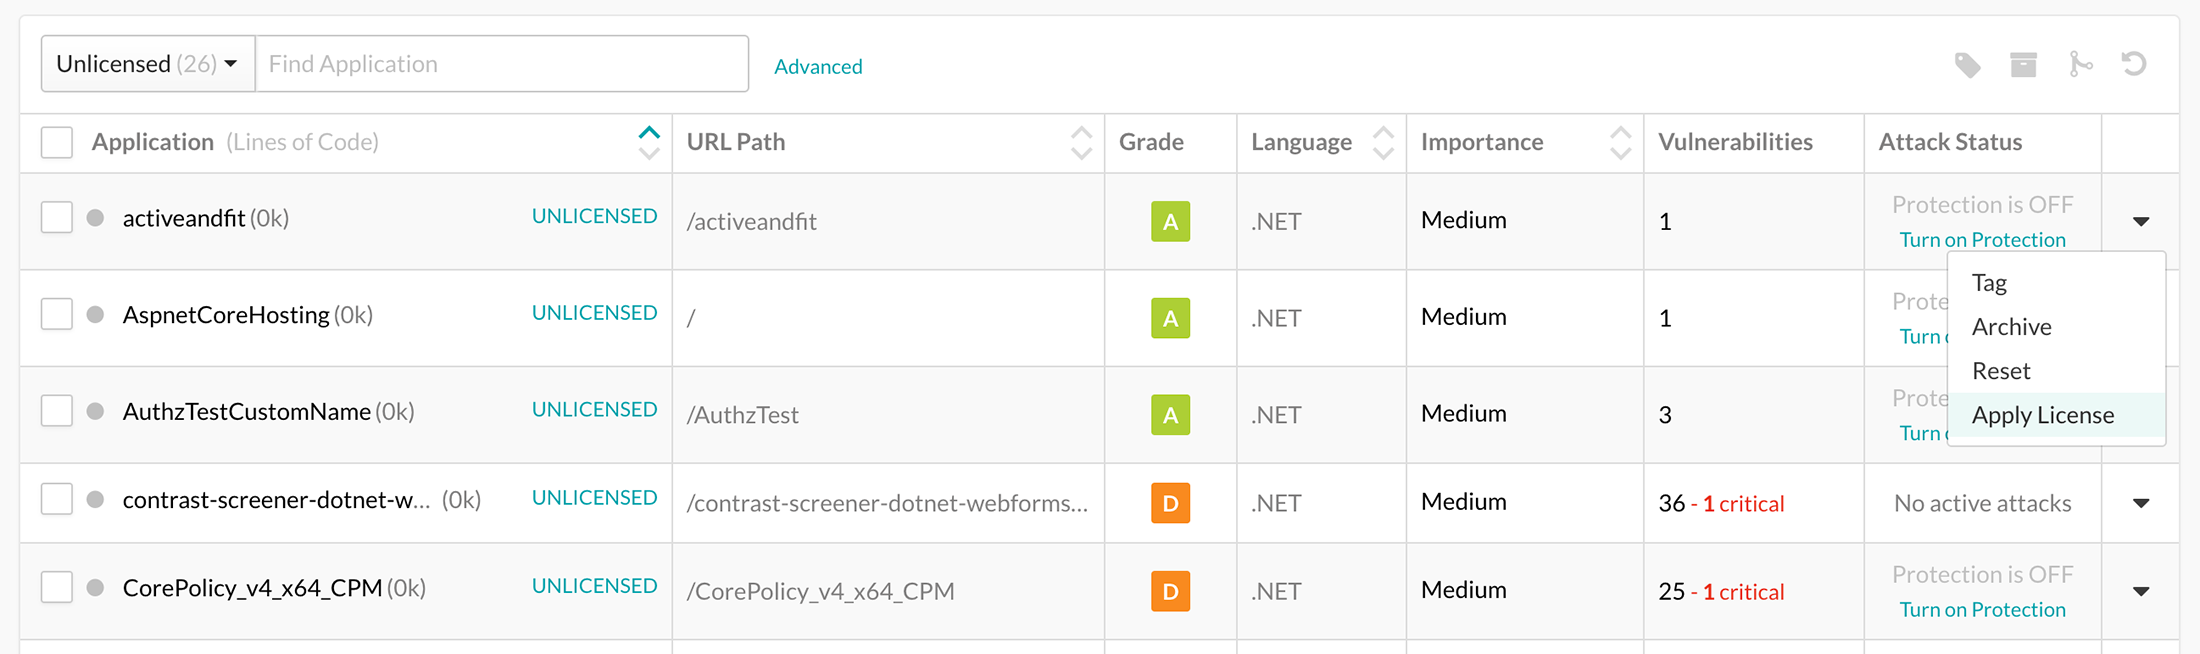
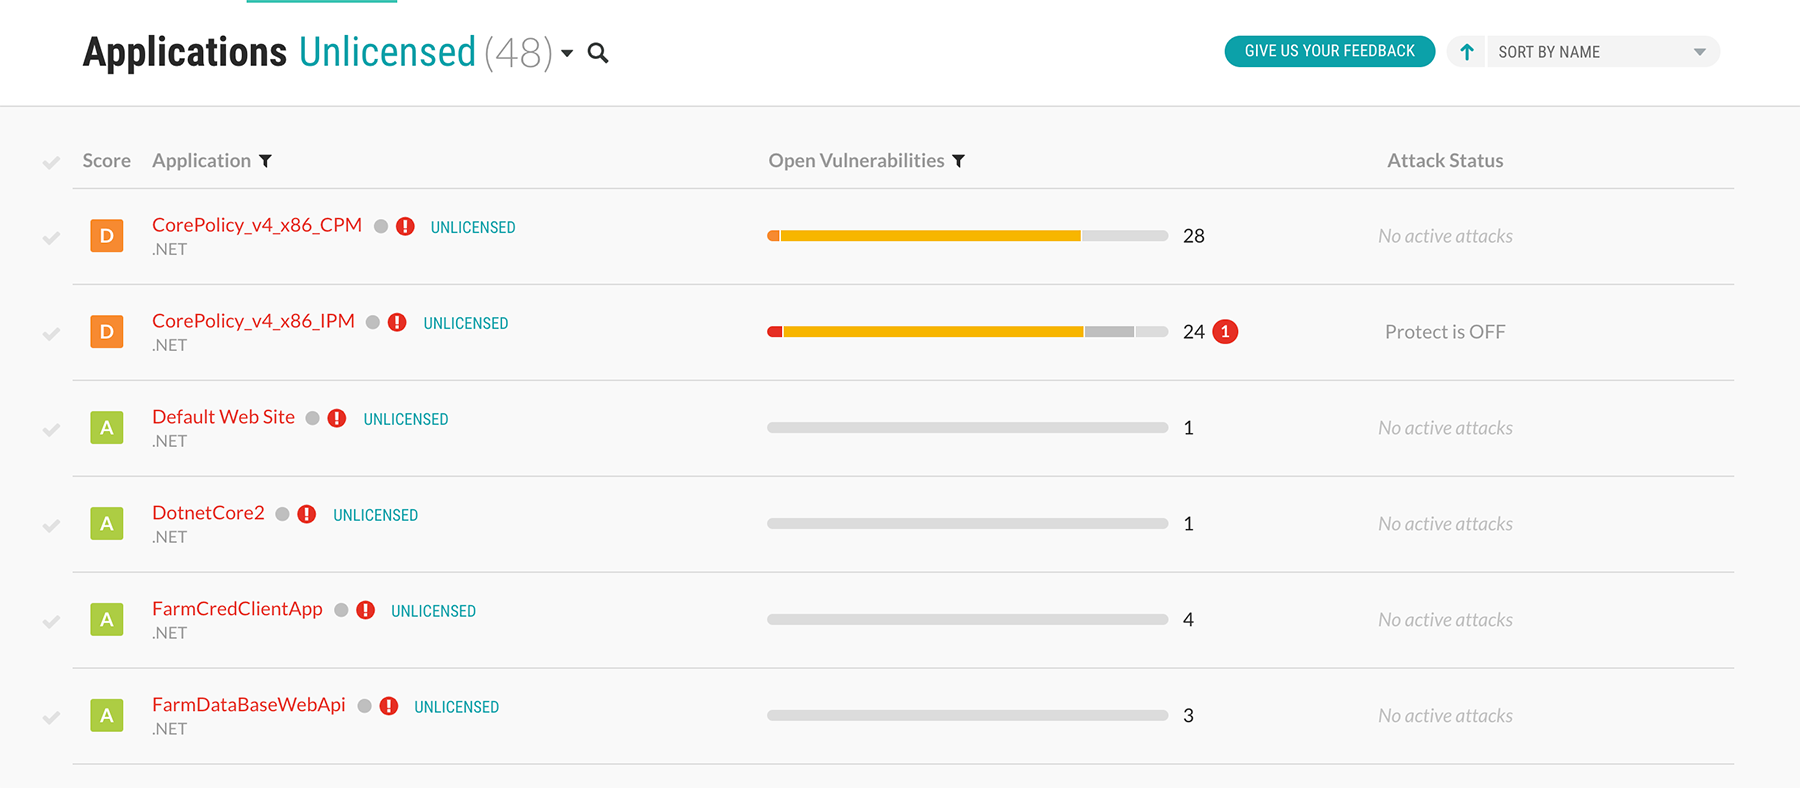
updated text and images, overview/license

diff --git a/content/user/apps/manage/ManageApplications.md b/content/user/apps/manage/ManageApplications.md
@@ -4,7 +4,7 @@ description: "Overview of the core operations for an application from the action
 tags: "user ui application manage archiving restoring resetting deleting"
 -->
 
-Contrast users can manage applications based on their [organization or application role](admin-manageorgsroleperm.html#roles). Manage individual applications in the grid, or use the action bar to make changes in bulk. To archive, restore, reset or delete applications, see the step-by-step instructions in the [Delete Applications](user-appsmanage.html#delete) article.  
+Contrast users can manage applications based on their [organization or application role](admin-manageorgsroleperm.html#roles). Manage individual applications in the grid, or use the action bar to make changes in bulk.
 
 <a href="assets/images/Applications-grid.png" rel="lightbox" title="See all of your applications in the grid"><img class="thumbnail" src="assets/images/Applications-grid.png"/></a>
 
@@ -20,29 +20,51 @@ Tag one or more applications to improve search functionality in the Contrast UI.
 
 To tag a single application, hover over the grid row and select the tag icon. To tag multiple applications at the same time, use the check marks to select the appropriate grid rows, and select the tag icon in the bottom action bar. Enter the tag name in the dialog that appears and select the button to **Save** your changes.
 
-## Filter Applications 
+<a href="assets/images/Tag-applications-grid.png" rel="lightbox" title="Tag applications in the grid"><img class="thumbnail" src="assets/images/Tag-applications-grid.png"/></a>
 
+## Sort and Filter Applications 
 
+There are a few way to narrow down the number of applications in the grid: 
+
+* To see all application in the a certain category - such as merged, unlicensed or archived applications - use the dropdown menu by the application count above the grid to choose the appropriate quick view. The grid defaults to **All**. 
+
+* To find specific applications, click on the **search** tool above the grid, and type the name of the application or application tag you want to locate. 
+
+* To **sort** the applications in the grid, use the dropdown menu to the upper-right side of the grid to sort by name, importance or language in ascending or descending order. 
+
+* To filter applications in your current view of the grid, select the **filter** (funnel) icon by the **Application** or **Open Vulnerabilities** columns. In the dropdown menu, select the filter(s) that you want to apply. To remove the select filters, select the **Clear** link beside the filter icon. 
+
+<a href="assets/images/Filter-applications-grid.png" rel="lightbox" title="Filter applications in the grid"><img class="thumbnail" src="assets/images/Filter-applications-grid.png"/></a>
 
 ## Archive Applications
 
 You can archive applications that should no longer collect traces, but that you want to keep for historical purposes. Archiving an application maintains the integrity of application data, such as traces and libraries, but essentially turns the application "off". When an application is archived, the agent is informed of the application status and no longer sends traces to the Contrast application. Archived applications also improve your overall portfolio score, as they don't count against the total score. 
 
-A small gray box appears to the right of the application name when it's in an archived state. By default, these applications don't show up in the **Applications** grid. However, you can check the **Show Archived** option in **Advanced Settings** to view and interact with an archived application.
+To archive an individual application, hover over the application's grid row, and select the **archive** (box) icon. To archive multiple applications, use the check marks to select the appropriate rows, and select the archive icon from the bottom menu. In the dialog that appears, select the **Archive** button to confirm your choice. 
+
+<a href="assets/images/Archive-applications-grid.png" rel="lightbox" title="Archive applications in the grid"><img class="thumbnail" src="assets/images/Archive-applications-grid.png"/></a>
+
+To see all archived applications, go to the **Archived** quick view in the **Applications** grid. From this view, you can **restore** or [delete applications](user-appsmanage.html#delete). 
 
 > **Note:** Archiving an application doesn't free up a license in Contrast. The only way to return a license back to the pool of available licenses is to archive, reset and then fully delete the application. (See the sections below to **Reset** and **Delete Applications**.)
 
-### Restore applications 
+### Unarchive applications 
 
-Once an application is archived, an administrator can restore the application. (Restoring an application is the inverse of archiving an application.) The application becomes visible by default, and all vulnerabilities and issues immediately impact the portfolio score.
+Once an application is archived, an administrator can restore the application. The application becomes visible by default, and all vulnerabilities and issues immediately impact the portfolio score.
 
 > **Note:** If an application was reset, there is no way to restore the purged data. 
+
+To unarchive an application, go the **Archived** quick view in the grid. To unarchive an individual application, hover over the application's grid row, and select the **unarchive** (arrow) icon. To unarchive multiple applications, use the check marks to select the appropriate rows, and select the unarchive icon from the bottom menu. In the dialog that appears, select the **Unarchive** button to confirm your choice. 
+
+<a href="assets/images/Unarchive-applications-grid.png" rel="lightbox" title="Unarchive archived applications in the grid"><img class="thumbnail" src="assets/images/Unarchive-applications-grid.png"/></a>
 
 ## Reset Applications
 
 Resetting an application purges all of the data associated with it, but doesn't remove the application. (Users often reset applications to clear all history and findings associated with a specific application.)
 
 To reset an application, hover over the grid row and select the reset icon. (This must be done individually.) In the dialog that appears, select the **Reset** button to confirm your choice. 
+
+<a href="assets/images/Reset-applications-grid.png" rel="lightbox" title="Reset an application in the grid"><img class="thumbnail" src="assets/images/Reset-applications-grid.png"/></a>
 
 ## Delete Applications 
 

diff --git a/content/user/apps/LicenseApplication.md b/content/user/apps/LicenseApplication.md
@@ -10,13 +10,12 @@ Once you bring an application online, and it's reporting results, you can assign
 
 ## Apply a License 
 
-You must be an Organization Admin to assign a license to an individual application. Complete the following steps to enable a license from the **Applications** page or an application's **Overview** tab. 
+You must be an OrgAdmin to assign a license to an individual application. To see unlicensed applications in your organization, look for the **Unlicensed** link beside the application name in the grid or the application's **Overview** page, or go to the **Unlicensed** quick view. 
 
-* Identify the application to license in the **Applications** page grid.
-* In the dropdown menu, select **Apply License**. <br> You can also click the **Unlicensed** link beside the application name in the grid or the application's **Overview** tab, and then click the button to **Apply License** in the dialog that appears.
+<a href="assets/images/License-application-grid.png" rel="lightbox" title="View all unlicensed applications"><img class="thumbnail" src="assets/images/License-application-grid.png"/></a>
 
-<a href="assets/images/License-application-grid.png" rel="lightbox" title="Apply license to an application"><img class="thumbnail" src="assets/images/License-application-grid.png"/></a>
+To apply a license, select the **Unlicensed** link beside the application name in the grid or the application's **Overview** tab. In the dialog that appears, click the button to **Apply License**. Once this is completed, the application is no longer marked as "Unlicensed", and all findings are visible.
 
-* The application is no longer marked as "Unlicensed", and all findings are visible.
+<a href="assets/images/Apply-app-license.png" rel="lightbox" title="Apply a license to an application"><img class="thumbnail" src="assets/images/Apply-app-license.png"/></a>
 
-Organization and Super Admins can automatically apply licenses to new applications in the Organization Settings and System Settings pages, respectively. For more information about applying and managing licenses, read [Manage Licenses](admin-manageorgs.html#manage-license). 
+OrgAdmins and SuperAdmins can automatically apply licenses to new applications in the Organization Settings and System Settings pages, respectively. For more information about applying and managing licenses, read [Manage Licenses](admin-manageorgs.html#manage-license). 
